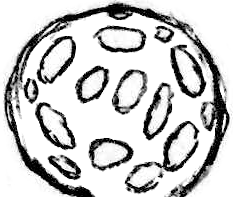
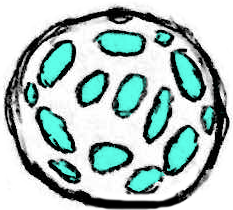
Added Colony and Knight. Adjusted dreath growth.

diff --git a/High Space/Dreath.swift b/High Space/Dreath.swift
@@ -25,8 +25,8 @@ class DreathMap {
     var grid: Grid
     var map: GameMap
     
-    let threshold: Float = 0.5
-    let clusterToSpawner: Float = 500
+    let threshold: Float = 2
+    let clusterToSpawner: Float = 400
     
     init(_ game: Grid, _ map: GameMap) {
         dreath = Dreath()
@@ -49,6 +49,8 @@ class DreathMap {
     func update() {
         spawn()
         spawnSpawner()
+        spawnColony()
+        spawnKnight()
     }
     
     func spawn() {
@@ -70,7 +72,7 @@ class DreathMap {
     }
     
     private func spawnSpawner() {
-        let clusters = getClusters()
+        let clusters: [DreathCluster<DreathFloater>] = getClusters(0.5.m)
         for index in 0 ..< clusters.count {
             let cluster = clusters[index]
             if cluster.dreath >= clusterToSpawner {
@@ -82,24 +84,46 @@ class DreathMap {
         }
     }
     
-    func getClusters() -> [DreathCluster] {
-        var clusters: [DreathCluster] = []
-        let dreaths = grid.actors.filter{ $0 is DreathFloater }.map{ $0 as! DreathFloater }
+    private func spawnColony() {
+        let spawners: [DreathCluster<DreathSpawner>] = getClusters(2.m)
+        for cluster in spawners {
+            if cluster.dreath >= 15000 {
+                grid.append(DreathColony(cluster.floaters.first!.transform.location))
+                for spw in cluster.floaters {
+                    spw.dreath.amount = 0
+                }
+            }
+        }
+    }
+    
+    private func spawnKnight() {
+        let colonies = grid.actors.filter{ $0 is DreathColony }.map{ $0 as! DreathColony }
+        for colony in colonies {
+            if colony.dreath.amount >= 7000 {
+                colony.dreath.damage(1500)
+                grid.append(DreathKnight(colony.transform.location + float2(0, -2.m), grid))
+            }
+        }
+    }
+    
+    func getClusters<T where T: DreathActor>(distance: Float) -> [DreathCluster<T>] {
+        var clusters: [DreathCluster<T>] = []
+        let dreaths = grid.actors.filter{ $0 is T }.map{ $0 as! T }
         for i in 0 ..< dreaths.count {
             let prime = dreaths[i]
-            let cluster = DreathCluster()
+            let cluster = DreathCluster<T>()
             cluster.floaters.append(prime)
             clusters.append(cluster)
             for j in i + 1 ..< dreaths.count {
                 let secunde = dreaths[j]
-                if (prime.body.location - secunde.body.location).length <= 0.5.m {
+                if (prime.body.location - secunde.body.location).length <= distance{
                     cluster.floaters.append(secunde)
                 }
             }
         }
         return clusters.filter{ $0.floaters.count > 1 }
     }
-    
+   
     func totalDreath() -> Float {
         var amount = dreath.amount
         grid.actors.forEach{
@@ -111,8 +135,8 @@ class DreathMap {
     }
 }
 
-class DreathCluster {
-    var floaters: [DreathFloater] = []
+class DreathCluster<T: DreathActor> {
+    var floaters: [T] = []
     
     var dreath: Float {
         var amount: Float = 0
@@ -219,7 +243,7 @@ class DreathSpawner: DreathActor {
         let growth = (dreath.amount) / 5000
         let clamped = clamp(growth, min: 0, max: 1)
         let value = 1 - growth
-        display.color = float4(growth / 5, value * 0.4, 0.2 + value * 0.5, 1)
+        display.color = float4(growth + 0.5, value * 0.9, value * 0.5, 1)
         let rect = body.shape as! Rect
         rect.setBounds(float2(1.5.m) * (clamped))
         display.visual.refresh()
@@ -227,3 +251,72 @@ class DreathSpawner: DreathActor {
     }
     
 }
+
+class DreathColony: DreathActor {
+    
+    init(_ location: float2) {
+        super.init(location, float2(1.m, 2.m), Substance.getStandard(50), nil)
+        display.color = float4(0.2, 0.2, 0.2, 1)
+        display.scheme.info.texture = GLTexture("Colony").id
+        dreath.amount = 5000
+    }
+    
+    override func update() {
+        super.update()
+        dreath.amount += 100 * Time.time
+        let growth = (dreath.amount) / 10000
+        let clamped = clamp(growth, min: 0, max: 1)
+        let value = 1 - growth
+        display.color = float4(growth * 2, value, value * 0.2, 1)
+        let rect = body.shape as! Rect
+        rect.setBounds(float2(3.m, 3.m) * clamped)
+        display.visual.refresh()
+    }
+    
+}
+
+class DreathKnight: DreathActor {
+    let weapon: Weapon
+    
+    init(_ location: float2, _ grid: Grid) {
+        weapon = Weapon(grid, "player", PlayerTargetter())
+        super.init(location, float2(0.5.m, 1.m), Substance.getStandard(3), nil)
+        display.color = float4(0.7, 0.7, 0.7, 1)
+        dreath.amount = 500
+        weapon.actor = self
+        body.callback = { (body, collision) in
+            if !self.onObject {
+                self.onObject = collision.normal.y > 0
+            }
+        }
+    }
+    
+    override func update() {
+        super.update()
+        let dl = Player.player.transform.location - transform.location
+        if dl.length <= 15.m && dl.length >= 2.m {
+            body.velocity.x += normalize(dl).x * 0.5.m
+            if abs(body.velocity.x) > 2.m {
+                body.velocity.x = 0
+            }
+            if random(0, 100) > 90 && onObject {
+                body.velocity.y += -5.m
+            }
+        }
+        weapon.fire()
+    }
+    
+}
+
+
+
+
+
+
+
+
+
+
+
+
+

diff --git a/High Space/Basic.swift b/High Space/Basic.swift
@@ -75,7 +75,7 @@ class Shield {
     
     init(amount: Float) {
         points = PointRange(amount)
-        timer = Timer(5) {
+        timer = Timer(1) {
             self.damaged = false
         }
     }
@@ -90,12 +90,14 @@ class Shield {
         if damaged {
             timer.update(Time.time)
         }else{
-            points.increase(45 * Time.time)
+            points.increase(300 * Time.time)
         }
     }
 }
 
 class Player: Actor, Interface {
+    static var player: Player!
+    
     var shield: Shield
     var weapon: Weapon!
     var callback: String -> () = {_ in}
@@ -104,7 +106,7 @@ class Player: Actor, Interface {
         shield = Shield(amount: 1000)
         self.weapon = weapon
         super.init(Rect(location, float2(0.5.m, 1.m)), Substance.getStandard(3))
-        weapon.player = self
+        weapon.actor = self
         body.object = self
         body.callback = { (body, collision) in
             if !self.onObject {
@@ -114,6 +116,7 @@ class Player: Actor, Interface {
                 self.callback(tag)
             }
         }
+        Player.player = self
     }
     
     func use(command: Command) {
@@ -135,44 +138,69 @@ class Player: Actor, Interface {
 }
 
 class Weapon {
-    let controller: GameController
-    var player: Player!
+    let grid: Grid
+    var actor: Actor!
     var count: Float
+    var targetter: Targetter
+    var tag: String
     
-    init(_ controller: GameController) {
-        self.controller = controller
+    init(_ grid: Grid, _ tag: String, _ targetter: Targetter) {
+        self.grid = grid
+        self.tag = tag
+        self.targetter = targetter
         count = 0
     }
     
     func fire() {
         count += Time.time
         if count >= 0.2 {
-            if let char = findActor() {
+            if let char = targetter.getTarget() {
                 let location = char.transform.location
-                let dl = location - player.transform.location
-                let bullet = Bullet(player.transform.location + normalize(dl) * 0.25.m)
-                bullet.body.velocity = normalize(dl) * 10.m
-                controller.append(bullet)
+                let dl = location - actor.transform.location
+                let bullet = Bullet(actor.transform.location + normalize(dl) * 0.25.m, tag)
+                bullet.body.velocity = normalize(dl) * 5.m
+                grid.append(bullet)
             }
             count = 0
         }
     }
     
-    func findActor() -> Actor? {
-        var bestactor: Actor?
+}
+
+protocol Targetter {
+    func getTarget() -> Actor?
+}
+
+class DreathTargetter: Targetter {
+    unowned let grid: Grid
+    var player: Player!
+    
+    init(_ grid: Grid) {
+        self.grid = grid
+    }
+    
+    func getTarget() -> Actor? {
+        var bestactor: DreathActor?
         var length: Float = FLT_MAX
         
-        for actor in controller.grid.actors {
-            if let char = actor as? Character {
+        for actor in grid.actors {
+            if let char = actor as? DreathActor {
                 let dl = player.transform.location - char.transform.location
                 if length > dl.length {
                     length = dl.length
-                    bestactor = actor
+                    bestactor = char
                 }
             }
         }
         
         return bestactor
+    }
+}
+
+class PlayerTargetter: Targetter {
+    
+    func getTarget() -> Actor? {
+        return Player.player
     }
     
 }
@@ -180,15 +208,25 @@ class Weapon {
 class Bullet: Actor {
     var active = true
     
-    init(_ location: float2) {
-        super.init(Rect(location, float2(0.05.m, 0.05.m)), Substance.getStandard(0.5))
+    init(_ location: float2, _ tag: String) {
+        super.init(Rect(location, float2(0.05.m, 0.05.m)), Substance.getStandard(0.01))
         body.relativeGravity = 0
         body.callback = { (body, _) in
-            if let char = body.object as? DreathActor {
-                char.dreath.damage(500)
+            if tag == "dreath" {
+                if let char = body.object as? DreathActor {
+                    char.dreath.damage(100)
+                }
+                if !(body.object is Player) {
+                    self.active = false
+                }
             }
-            if !(body.object is Player) {
-                self.active = false
+            if tag == "player" {
+                if let pla = body.object as? Player {
+                    pla.shield.damage(5)
+                }
+                if !(body.object is DreathActor) {
+                    self.active = false
+                }
             }
         }
     }

diff --git a/High Space/Game.swift b/High Space/Game.swift
@@ -30,7 +30,9 @@ class Game: DisplayLayer {
         
         dreathmap = DreathMap(controller.grid, map)
         
-        player = Player(float2(Camera.size.x / 2, -2.m), Weapon(controller))
+        let targetter = DreathTargetter(controller.grid)
+        player = Player(float2(Camera.size.x / 2, -2.m), Weapon(controller.grid, "dreath", targetter))
+        targetter.player = player
         player.callback = {
             if $0 == "goal" {
                 self.victory()
@@ -49,7 +51,6 @@ class Game: DisplayLayer {
         let assm = Assembler()
         let floormaker = FloorSuperMaker(Game.levelsize)
         floormaker.characters.append(SpawnerMaker())
-        //floormaker.characters.append(BlobMaker(map))
         assm.makers.append(floormaker)
         
         maker = MasterMaker(assm, Game.levelsize) {

diff --git a/High Space/Physics.swift b/High Space/Physics.swift
@@ -10,7 +10,7 @@ import Foundation
 import simd
 import Accelerate
 
-let multiplier: Double = 2
+let multiplier: Double = 1
 let framesPerSecond: Double = 60
 
 let dt: Double = 1.0 / (framesPerSecond * multiplier)

diff --git a/High Space/TextureRepo.m b/High Space/TextureRepo.m
@@ -43,7 +43,8 @@
   @[@"white",
     @"galaxy",
     @"Spawner",
-    @"Floater"];
+    @"Floater",
+    @"Colony"];
     
     
     for (NSString *name in prefetched) {
